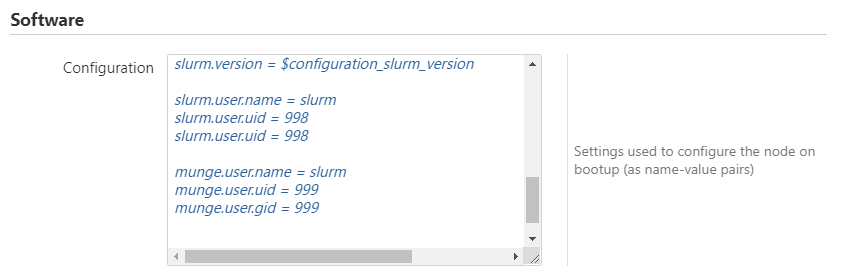
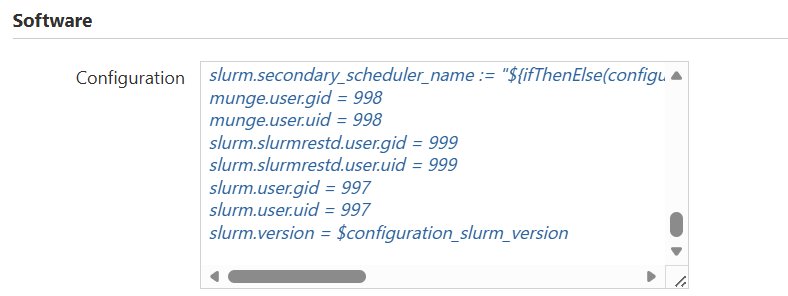
edit UID conflicts readme

diff --git a/README.md b/README.md
@@ -394,17 +394,33 @@ Slurm and PMIX packages are fetched and downloaded exclusively from packages.mic
 
 By default, this project uses a UID and GID of 11100 for the Slurm user, 11101 for the Munge user and 11102 for the Slurmrestd user. If this causes a conflict with another user or group, these defaults may be overridden.
 
-To override the UID and GID, click the edit button for both the `scheduler` node:
+To override the UID and GID, first terminate the cluster and then for each nodearray click the edit button, for example the `scheduler-ha` array:
 
-![Alt](/images/schedulernodeedit.png "Edit Scheduler Node")
-
-And for each nodearray, for example the `htc` array:
 ![Alt](/images/nodearraytab.png "Edit nodearray")
 
- and add the following attributes at the end of the `Configuration` section:
+ For each nodearray, edit the following attributes in the `Configuration` section:
+```
+munge.user.uid
+munge.user.gid
+slurm.slurmrestd.user.uid
+slurm.slurmrestd.user.gid
+slurm.user.uid
+slurm.user.gid
+```
 
 
 ![Alt](/images/nodearrayedit.png "Edit configuration")
+
+After saving the attributes, you may restart the cluster.
+
+**Note: slurm requires UID/GID to be consistent across the cluster so you must edit all nodearray (including scheduler and scheduler-ha) configurations to override the defaults successfully. If you fail to do so you will see the following error in slurmd:**
+```
+Nov 18 17:50:18 rc403-hpc-1 slurmd[8046]: [2025-11-18T17:50:18.003] error: Security violation, ping RPC from uid 11100
+Nov 18 17:50:26 rc403-hpc-1 slurmd[8046]: [2025-11-18T17:50:26.011] error: Security violation, health check RPC from uid 11100
+Nov 18 17:51:32 rc403-hpc-1 slurmd[8046]: [2025-11-18T17:51:32.767] debug:  _rpc_terminate_job: uid = 11100 JobId=2
+Nov 18 17:51:32 rc403-hpc-1 slurmd[8046]: [2025-11-18T17:51:32.767] error: Security violation: kill_job(2) from uid 11100
+Nov 18 17:51:58 rc403-hpc-1 slurmd[8046]: [2025-11-18T17:51:58.002] error: Security violation, ping RPC from uid 11100
+```
 
 
 ### Incorrect number of GPUs
